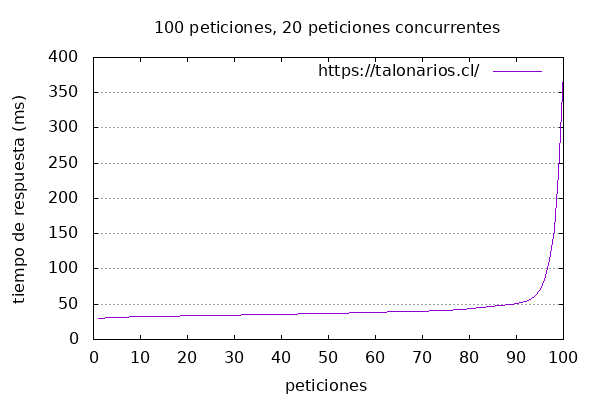
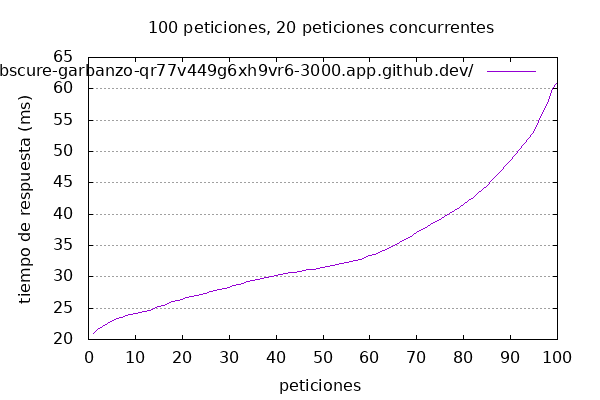
resultados benchmark

diff --git a/AB.md b/AB.md
@@ -1,6 +1,6 @@
 # Resultados de la prueba de carga con Apache Benchmark
 
-## URL probada: https://talonarios.cl/
+## URL probada: https://obscure-garbanzo-qr77v449g6xh9vr6-3000.app.github.dev/
 
 - **Número de peticiones**: 100
 - **Peticiones concurrentes**: 20
@@ -12,48 +12,48 @@ This is ApacheBench, Version 2.3 <$Revision: 1843412 $>
 Copyright 1996 Adam Twiss, Zeus Technology Ltd, http://www.zeustech.net/
 Licensed to The Apache Software Foundation, http://www.apache.org/
 
-Benchmarking talonarios.cl (be patient).....done
+Benchmarking obscure-garbanzo-qr77v449g6xh9vr6-3000.app.github.dev (be patient).....done
 
 
-Server Software:        Vercel
-Server Hostname:        talonarios.cl
+Server Software:        
+Server Hostname:        obscure-garbanzo-qr77v449g6xh9vr6-3000.app.github.dev
 Server Port:            443
-SSL/TLS Protocol:       TLSv1.2,ECDHE-RSA-AES128-GCM-SHA256,2048,128
+SSL/TLS Protocol:       TLSv1.2,ECDHE-RSA-AES256-GCM-SHA384,2048,256
 Server Temp Key:        X25519 253 bits
-TLS Server Name:        talonarios.cl
+TLS Server Name:        obscure-garbanzo-qr77v449g6xh9vr6-3000.app.github.dev
 
 Document Path:          /
-Document Length:        15 bytes
+Document Length:        0 bytes
 
 Concurrency Level:      20
-Time taken for tests:   0.470 seconds
+Time taken for tests:   0.223 seconds
 Complete requests:      100
 Failed requests:        0
 Non-2xx responses:      100
-Total transferred:      35900 bytes
-HTML transferred:       1500 bytes
-Requests per second:    212.67 [#/sec] (mean)
-Time per request:       94.041 [ms] (mean)
-Time per request:       4.702 [ms] (mean, across all concurrent requests)
-Transfer rate:          74.56 [Kbytes/sec] received
+Total transferred:      67571 bytes
+HTML transferred:       0 bytes
+Requests per second:    449.01 [#/sec] (mean)
+Time per request:       44.542 [ms] (mean)
+Time per request:       2.227 [ms] (mean, across all concurrent requests)
+Transfer rate:          296.29 [Kbytes/sec] received
 
 Connection Times (ms)
               min  mean[+/-sd] median   max
-Connect:       22   25   1.6     24      30
-Processing:     8   20  38.0     12     351
-Waiting:        8   20  38.0     12     351
-Total:         30   45  38.4     37     380
+Connect:        8   13   6.4     11      42
+Processing:    12   21   7.5     19      50
+Waiting:       12   20   7.0     19      48
+Total:         21   34   9.4     32      61
 
 Percentage of the requests served within a certain time (ms)
-  50%     37
-  66%     40
-  75%     41
-  80%     45
-  90%     51
-  95%     68
-  98%    181
-  99%    380
- 100%    380 (longest request)
+  50%     32
+  66%     35
+  75%     40
+  80%     42
+  90%     50
+  95%     54
+  98%     61
+  99%     61
+ 100%     61 (longest request)
 ```
 
 ### Gráfico de tiempos de respuesta
